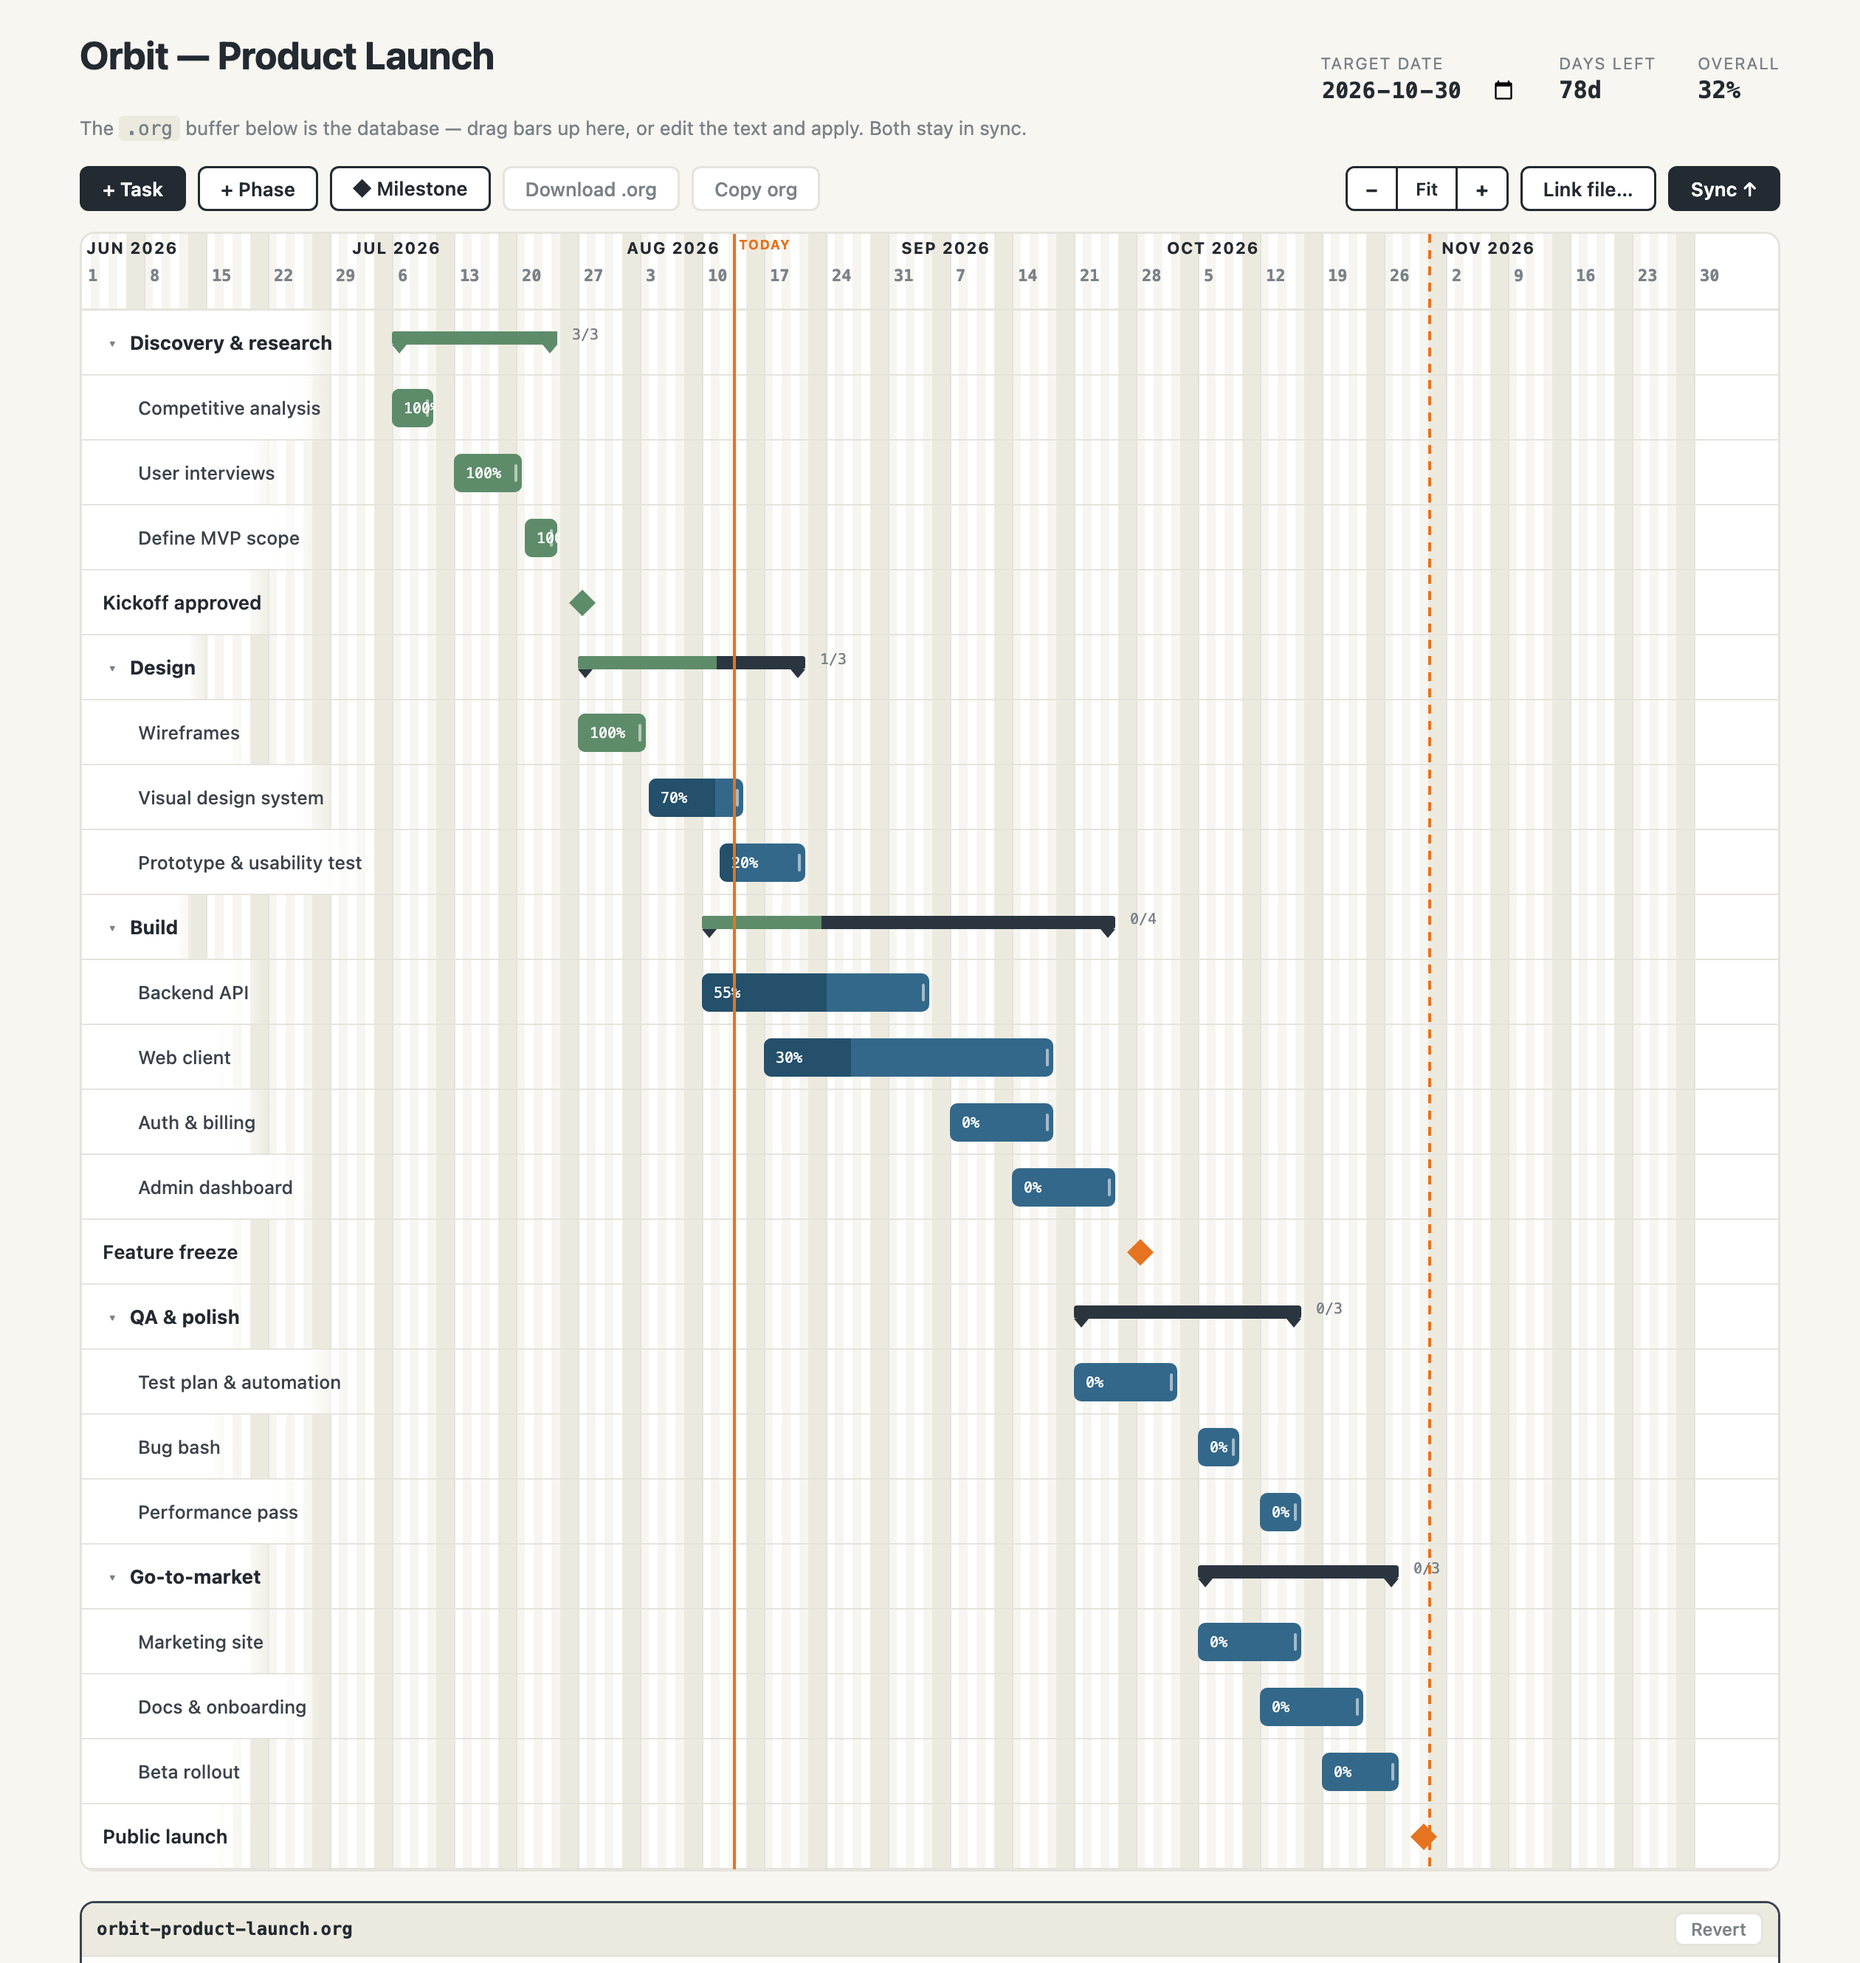
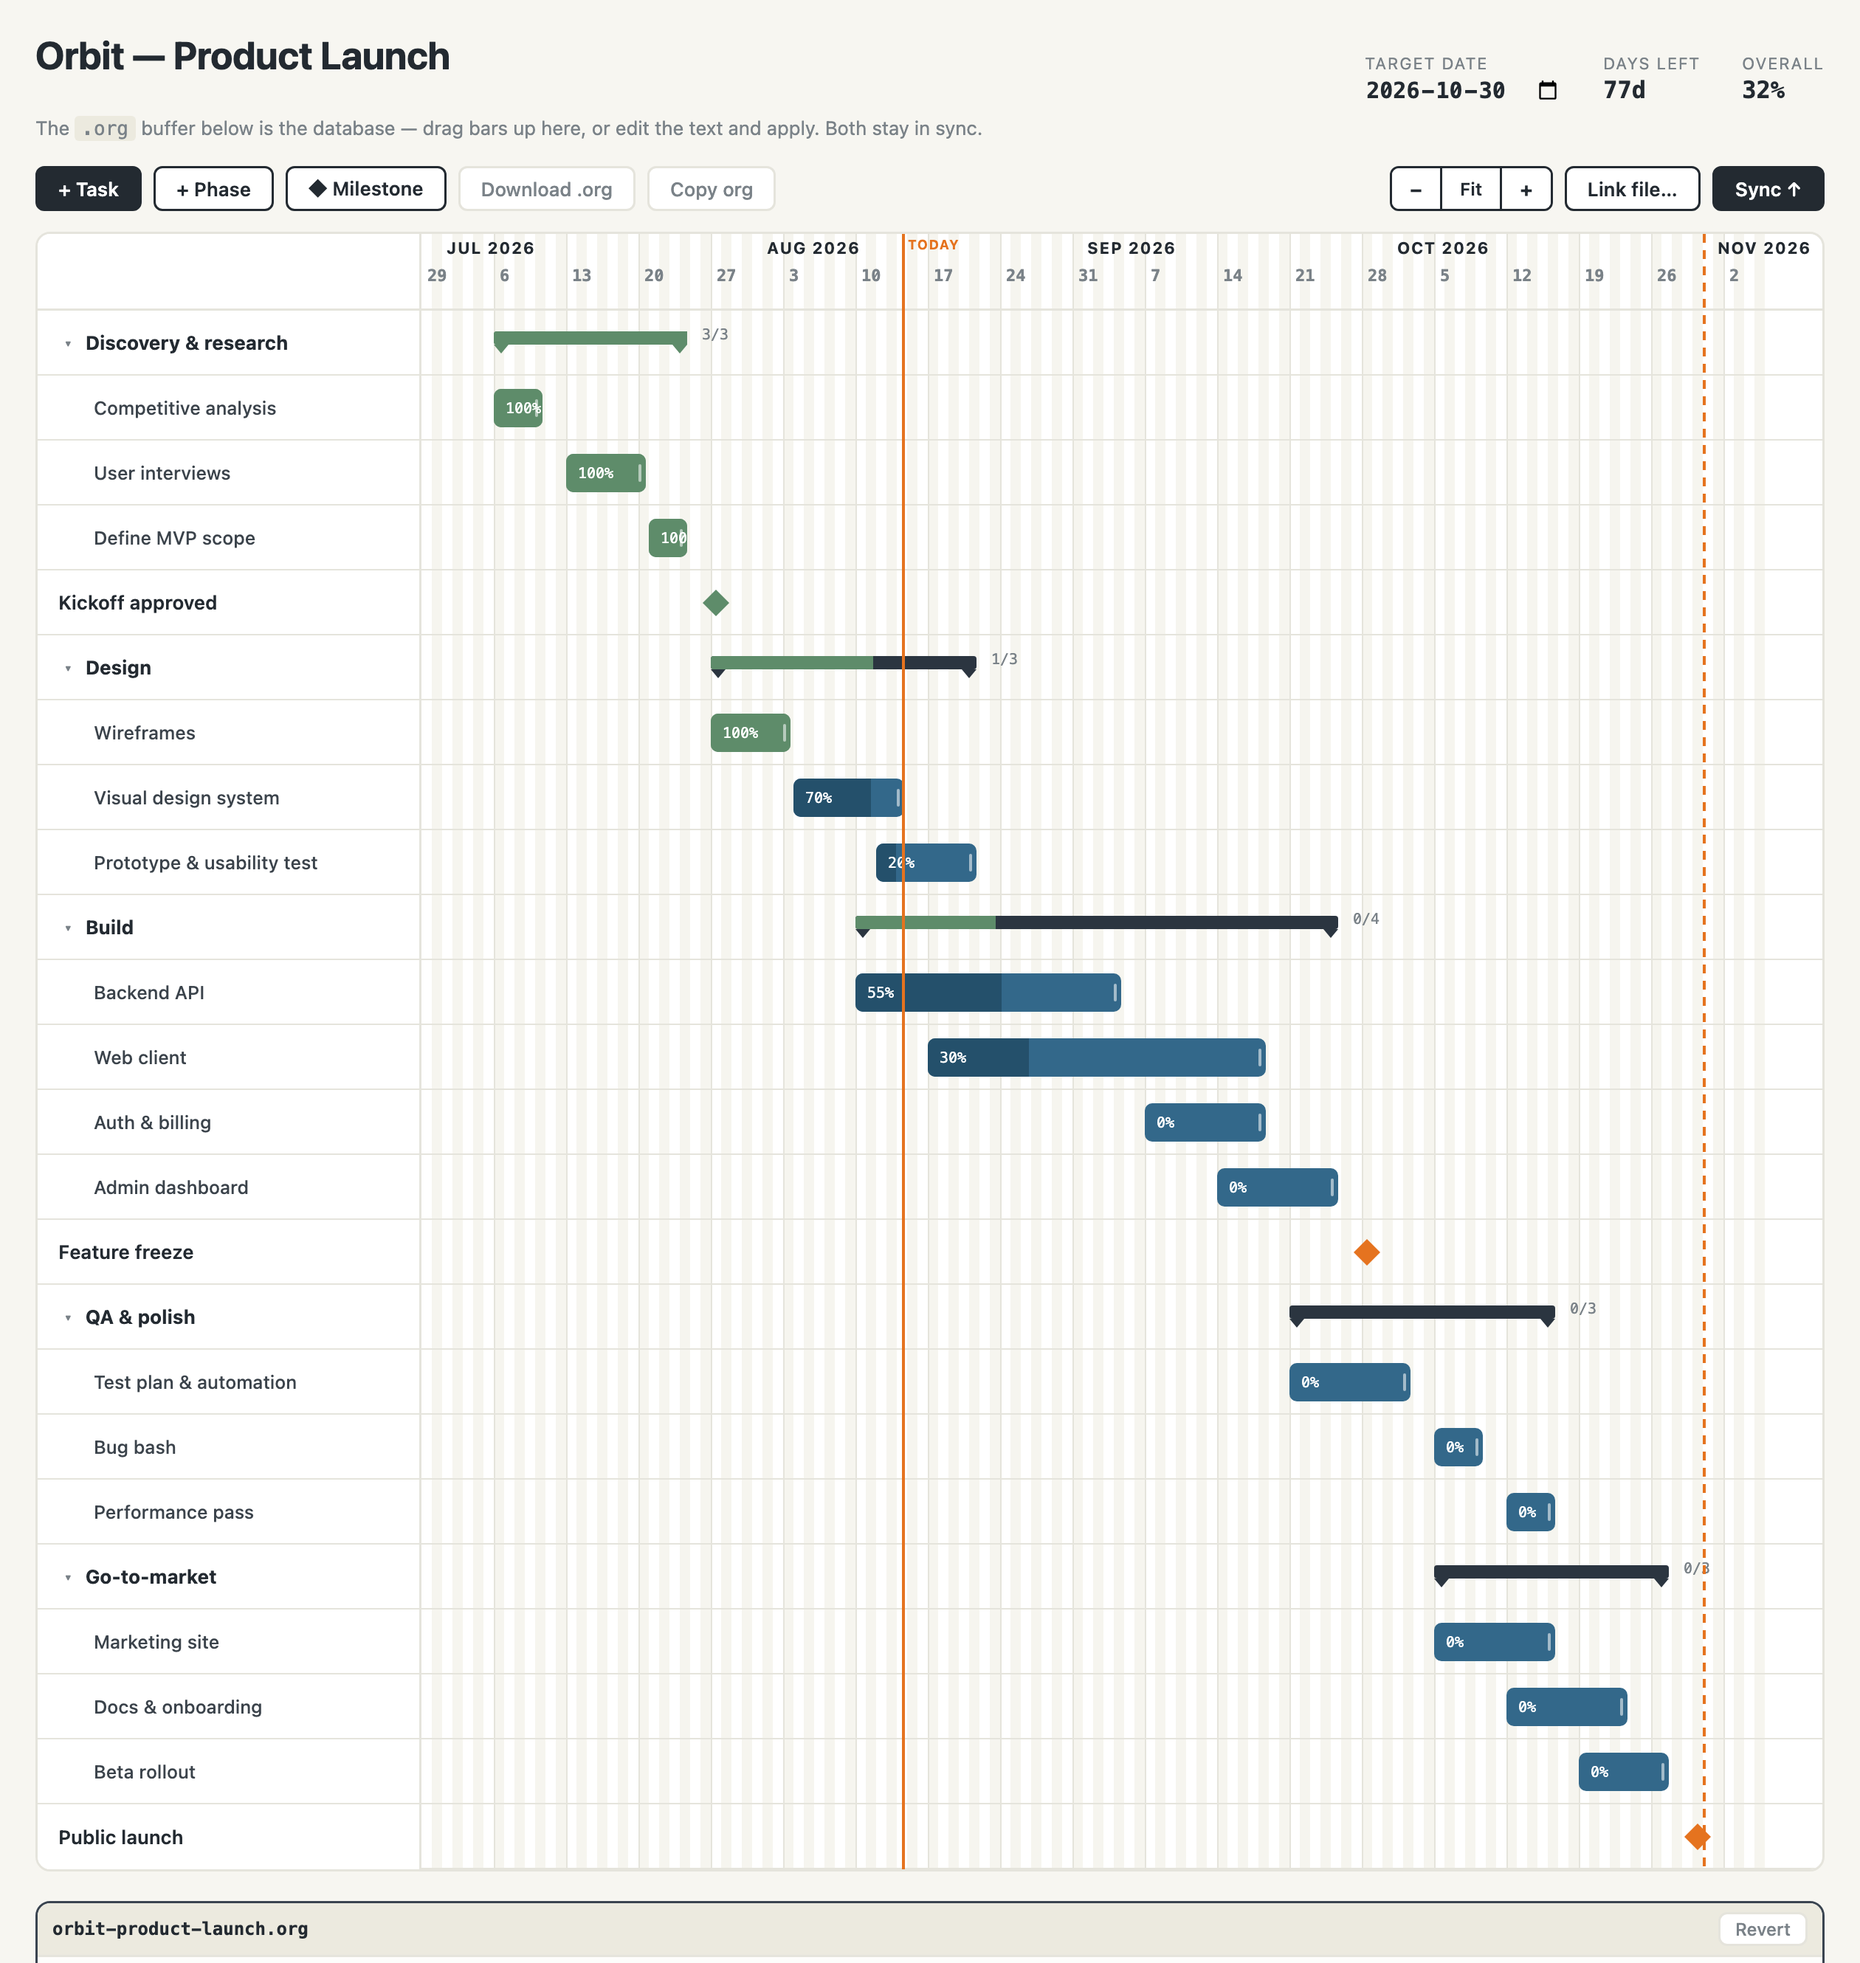
Refine chart layout, zoom, and range
- Split the chart into a fixed task-name column and a separate scrolling
  timeline pane, so labels no longer overlay the grid.
- Remove the body max-width; the chart fills the window.
- Use two alternating column shades only — weekends look like weekdays.
- Pad the visible range to 1 week (was 1 month) before/after the data.
- Default to fully zoomed in, centered on today.
- Regenerate docs/screenshot.png to match.

diff --git a/org-gantt-web.html b/org-gantt-web.html
@@ -25,7 +25,7 @@
   }
   * { box-sizing: border-box; margin: 0; padding: 0; }
   html, body { background: var(--paper); color: var(--ink); font-family: var(--sans); }
-  body { padding: 20px 24px 48px; max-width: 1200px; margin: 0 auto; }
+  body { padding: 20px 24px 48px; }
 
   /* ---------- header ---------- */
   header { display: flex; flex-wrap: wrap; align-items: baseline; gap: 16px 28px; margin-bottom: 6px; }
@@ -134,7 +134,22 @@
     background: var(--panel); border: 1.5px solid var(--grid); border-radius: 10px;
     overflow: hidden; margin-bottom: 20px;
   }
-  .chart-scroll { overflow-x: auto; }
+  .chart-grid { display: flex; align-items: flex-start; }
+  .label-col { flex: 0 0 auto; width: 260px; background: var(--panel); border-right: 1.5px solid var(--grid); }
+  .label-head { height: 52px; border-bottom: 1.5px solid var(--grid); }
+  .label-cell {
+    height: 44px; border-bottom: 1px solid var(--grid);
+    display: flex; align-items: center; gap: 5px;
+    padding: 0 12px 0 14px; font-size: 13px; font-weight: 600; color: var(--ink);
+    cursor: pointer; overflow: hidden;
+  }
+  .label-cell:last-child { border-bottom: none; }
+  .label-cell .name { overflow: hidden; text-overflow: ellipsis; white-space: nowrap; }
+  .label-cell.child { padding-left: 38px; font-weight: 500; font-size: 12.5px; color: #3B434B; }
+  .label-cell.group { font-weight: 700; }
+  .label-cell.selected { background: #F3F7FA; }
+  .label-cell:hover { background: var(--weekend); }
+  .chart-scroll { overflow-x: auto; flex: 1 1 auto; min-width: 0; }
   .chart { position: relative; min-width: 100%; }
 
   .axis { position: relative; height: 52px; border-bottom: 1.5px solid var(--grid); }
@@ -151,22 +166,11 @@
     display: block; font-family: var(--mono); font-size: 12.5px; font-weight: 700;
     line-height: 1.15; color: var(--ink);
   }
-  .axis .daynum.weekend .dn { color: var(--muted); }
   .axis .daynum.wk { top: 22px; text-align: left; padding-left: 4px; }
   .axis .daynum.wk .dn { font-size: 11px; font-weight: 600; color: var(--muted); }
 
   .row { position: relative; height: 44px; border-bottom: 1px solid var(--grid); }
   .row:last-child { border-bottom: none; }
-  .row .rowlabel {
-    position: sticky; left: 0; z-index: 5;
-    display: inline-flex; align-items: center; gap: 5px; height: 100%;
-    padding: 0 10px 0 14px; font-size: 13px; font-weight: 600;
-    background: linear-gradient(to right, var(--panel) 82%, transparent);
-    max-width: 240px; pointer-events: none; white-space: nowrap; overflow: hidden;
-    text-overflow: ellipsis;
-  }
-  .row.child .rowlabel { padding-left: 38px; font-weight: 500; font-size: 12.5px; color: #3B434B; }
-  .row.grouprow .rowlabel { font-weight: 700; }
   .row.selected { background: #F3F7FA; }
   .row.reordering { opacity: 0.45; }
   .toggle {
@@ -178,7 +182,6 @@
   .gridlayer { position: absolute; inset: 0; pointer-events: none; }
   .daycol { position: absolute; top: 0; bottom: 0; border-right: 1px solid var(--grid); }
   .daycol.odd { background: var(--day-stripe); }
-  .daycol.weekend { background: var(--weekend); }
   .gridlayer.dense .daycol { border-right: none; }
   .wkline { position: absolute; top: 0; bottom: 0; width: 1px; background: var(--grid); }
   .dropline {
@@ -321,8 +324,9 @@
   }
   @media (max-width: 700px) {
     body { padding: 12px 10px 40px; }
-    .row .rowlabel { max-width: 140px; font-size: 12px; }
-    .row.child .rowlabel { padding-left: 28px; }
+    .label-col { width: 150px; }
+    .label-cell { font-size: 12px; }
+    .label-cell.child { padding-left: 28px; }
   }
 </style>
 </head>
@@ -382,8 +386,11 @@
 </div>
 
 <div class="chart-wrap">
-  <div class="chart-scroll">
-    <div class="chart" id="chart"></div>
+  <div class="chart-grid">
+    <div class="label-col" id="labelCol"></div>
+    <div class="chart-scroll">
+      <div class="chart" id="chart"></div>
+    </div>
   </div>
 </div>
 
@@ -453,7 +460,6 @@
   function d(iso) { return new Date(iso + "T12:00:00Z"); }
   function iso(date) { return date.toISOString().slice(0, 10); }
   function addDays(isoStr, n) { return iso(new Date(d(isoStr).getTime() + n * DAY)); }
-  function addMonths(isoStr, n) { const dt = d(isoStr); dt.setUTCMonth(dt.getUTCMonth() + n); return iso(dt); }
   function diffDays(a, b) { return Math.round((d(b) - d(a)) / DAY); }
   function todayIso() { return iso(new Date(Date.now() - new Date().getTimezoneOffset() * 60000)); }
   function orgStamp(isoStr) { const dt = d(isoStr); return "<" + isoStr + " " + DOW[dt.getUTCDay()] + ">"; }
@@ -994,8 +1000,8 @@
   // ---------- range ----------
   function chartRange() {
     const t = todayIso();
-    // Span = earliest → latest date in the file, then padded 1 month on each side so
-    // there's always runway to scroll into. Based on the file's own dates (+ target).
+    // Span = earliest → latest date in the file, padded 1 week on each side so there's
+    // a little runway to scroll into. Based on the file's own dates (+ target).
     let lo = null, hi = null;
     for (const it of leaves()) {
       if (!lo || d(it.start) < d(lo)) lo = it.start;
@@ -1004,8 +1010,8 @@
     if (state.targetDate && (!hi || d(state.targetDate) > d(hi))) hi = state.targetDate;
     if (!lo) lo = t;
     if (!hi) hi = t;
-    lo = addMonths(lo, -1);
-    hi = addMonths(hi, 1);
+    lo = addDays(lo, -7);
+    hi = addDays(hi, 7);
     const back = (d(lo).getUTCDay() + 6) % 7;   // snap start to Monday
     lo = addDays(lo, -back);
     return { lo, hi, days: diffDays(lo, hi) + 1 };
@@ -1013,9 +1019,10 @@
 
   // ---------- rendering ----------
   const chartEl = document.getElementById("chart");
-  let dayW = 26;              // px per day (the zoom level)
-  let fitMode = false;        // true → recompute dayW each render to fit the whole span
+  const labelCol = document.getElementById("labelCol");
   const ZOOM_MIN = 6, ZOOM_MAX = 64;
+  let dayW = ZOOM_MAX;        // px per day (the zoom level); default is fully zoomed in
+  let fitMode = false;        // true → recompute dayW each render to fit the whole span
 
   function visibleRows() {
     const rows = [];
@@ -1050,12 +1057,12 @@
   function zoomFit() { fitMode = true; renderChart(); scroller().scrollLeft = 0; }
   function scrollToToday() {
     // Deferred a frame: on boot the container hasn't been laid out yet, so
-    // clientWidth reads 0 and the "keep some past in view" offset would be lost.
+    // clientWidth reads 0 and the centering offset would be lost.
     requestAnimationFrame(() => {
       const box = scroller();
       const { lo } = chartRange();
-      const x = diffDays(lo, todayIso()) * dayW;
-      box.scrollLeft = Math.max(0, x - box.clientWidth * 0.3);
+      const todayCenter = diffDays(lo, todayIso()) * dayW + dayW / 2;
+      box.scrollLeft = Math.max(0, todayCenter - box.clientWidth / 2);   // center today
     });
   }
 
@@ -1088,6 +1095,7 @@
 
     chartEl.style.width = width + "px";
     chartEl.innerHTML = "";
+    labelCol.innerHTML = "";
 
     if (!rows.length) {
       chartEl.innerHTML = '<div class="empty-hint">No tasks yet — add one above, or paste an org file into the buffer below.</div>';
@@ -1097,6 +1105,11 @@
     const AXIS_H = 52;
     const totalH = AXIS_H + rows.length * 44;
 
+    // left column header cell, aligned with the axis height
+    const lhead = document.createElement("div");
+    lhead.className = "label-head";
+    labelCol.appendChild(lhead);
+
     // per-day columns: one shaded column per day (alternating stripes; weekends darker).
     // When zoomed far out ("dense"), drop per-day borders and mark weeks with Monday lines.
     const dense = dayW < 12;
@@ -1105,9 +1118,8 @@
     grid.style.height = totalH + "px";
     for (let i = 0; i < days; i++) {
       const wd = d(addDays(lo, i)).getUTCDay();
-      const weekend = wd === 0 || wd === 6;
       const col = document.createElement("div");
-      col.className = "daycol" + (weekend ? " weekend" : (i % 2 ? " odd" : ""));
+      col.className = "daycol" + (i % 2 ? " odd" : "");   // two alternating shades, weekends included
       col.style.left = (i * dayW) + "px";
       col.style.width = dayW + "px";
       grid.appendChild(col);
@@ -1136,7 +1148,7 @@
       }
       if (!perDay && wd !== 1) continue;          // zoomed out: label Mondays only
       const dc = document.createElement("div");
-      dc.className = "daynum" + (perDay ? "" : " wk") + (wd === 0 || wd === 6 ? " weekend" : "");
+      dc.className = "daynum" + (perDay ? "" : " wk");
       dc.style.left = (i * dayW) + "px";
       if (perDay) dc.style.width = dayW + "px";
       dc.innerHTML = perDay
@@ -1209,8 +1221,17 @@
         row.appendChild(msEl);
       }
 
-      const label = document.createElement("span");
-      label.className = "rowlabel";
+      row.addEventListener("click", () => {
+        if (dragMoved) return;
+        openEditor(it.id);
+      });
+      chartEl.appendChild(row);
+
+      // matching task-name cell in the fixed left column
+      const cell = document.createElement("div");
+      cell.className = "label-cell" + (depth ? " child" : "") + (group ? " group" : "") +
+        (it.id === selectedId ? " selected" : "");
+      cell.dataset.id = it.id;
       if (group) {
         const tog = document.createElement("button");
         tog.className = "toggle";
@@ -1222,16 +1243,14 @@
           if (collapsed.has(it.id)) collapsed.delete(it.id); else collapsed.add(it.id);
           renderChart();
         });
-        label.appendChild(tog);
+        cell.appendChild(tog);
       }
-      label.appendChild(document.createTextNode(it.name));
-      row.appendChild(label);
-
-      row.addEventListener("click", () => {
-        if (dragMoved) return;
-        openEditor(it.id);
-      });
-      chartEl.appendChild(row);
+      const nameEl = document.createElement("span");
+      nameEl.className = "name";
+      nameEl.textContent = it.name;
+      cell.appendChild(nameEl);
+      cell.addEventListener("click", () => openEditor(it.id));
+      labelCol.appendChild(cell);
     });
 
     addMarker(lo, todayIso(), "today", "today", totalH);

diff --git a/CLAUDE.md b/CLAUDE.md
@@ -116,15 +116,20 @@ Rules:
   toolbar call `zoomOut`/`zoomFit`/`zoomIn`; `setZoom` keeps the centered day fixed.
   `fitMode` (set by Fit) recomputes `dayW` each render to fit the whole span. Rows
   flattened via `visibleRows()` honoring the in-memory `collapsed` set. One `.daycol`
-  per day (alternating `.odd` stripe, `.weekend` shaded); zoomed out (`dayW < 12`) the
+  per day (two alternating shades via `.odd`; weekends are NOT distinguished); zoomed out (`dayW < 12`) the
   grid goes `.dense` (per-day borders off, Monday `.wkline`s on). The axis prints every
   day's number + weekday initial when `dayW >= 18`, else Mondays only (`.daynum.wk`).
   Today line (solid orange), target line (dashed orange).
+- Layout is two panes in a flex `.chart-grid`: a fixed-width `.label-col` (task-name
+  cells, built alongside the bars in `renderChart` and kept row-aligned — `.label-head`
+  matches the 52px axis, `.label-cell` matches the 44px rows) and the scrolling
+  `.chart-scroll` holding the day grid + bars. Labels are their own column, never
+  overlaying the grid.
 - `chartRange()` spans the file's earliest task start → latest end/target, padded
-  **±1 calendar month** (`addMonths`), start snapped to Monday. The chart is wider than
-  its `.chart-scroll` container at normal zoom, so it scrolls/swipes horizontally with
-  the row labels pinned (`position: sticky`); `scrollToToday()` (rAF-deferred for
-  layout) sets the initial scroll so today sits ~30% from the left.
+  **±1 week** (`addDays`), start snapped to Monday. The `.chart-scroll` pane is wider
+  than its container at normal zoom, so only the timeline scrolls/swipes horizontally
+  while the label column stays put; `scrollToToday()` (rAF-deferred for layout) sets the
+  initial scroll so today sits ~30% from the left.
 - Drag (`attachDrag`, one handler, **axis-locked**): a drag on the bar commits to one
   axis from the first ~4px of movement. Horizontal → reschedule (day-quantized; a
   phase's summary bar shifts all children by the same delta; the right-edge `.handle`
